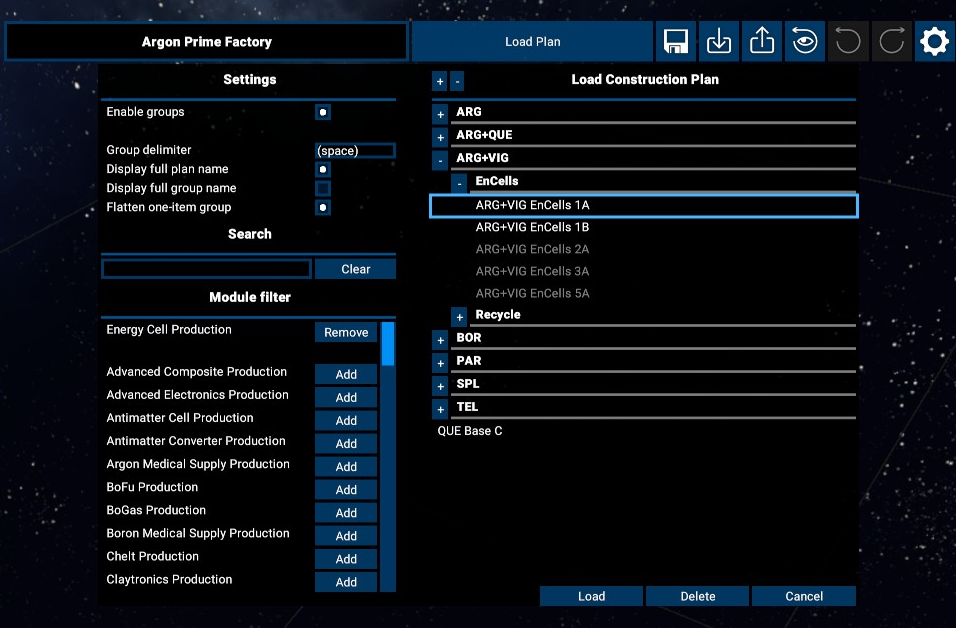
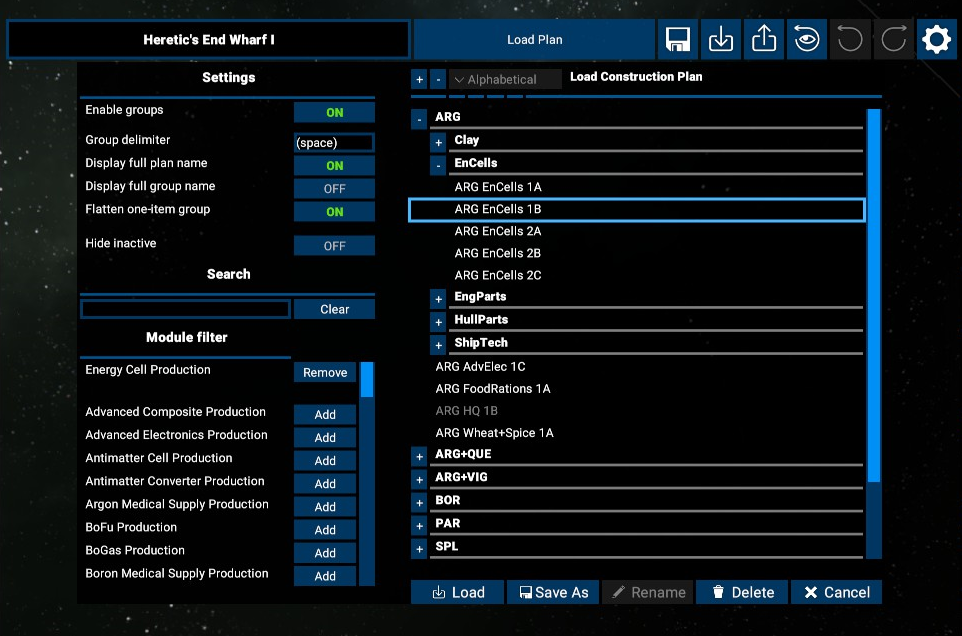
update images and readme, and bump version

diff --git a/README.md b/README.md
@@ -83,6 +83,7 @@ Use along-side VRO can break the "Race filter" during ship selection, unless thi
 
 ## Updates
 
+* 1.3: Added 'Save As' button. Remade settings switches. Added icons to button row.
 * 1.2.1: Fixed unresponsive station map after opening a context menu.
 * 1.2: Added option for loading partial ship loadout. Add size and purpose filter in ship selection. Remove ship size dropdown. Add sorting dropdown. Add rename button for ship and station module loadouts. Remove 'other' race option in auto-preset editor. Disable race dropdown for thruster auto rule.
 * 1.1: Added auto-generated preset editor. Added custom delete confirmation dialog. Fixed delete and load buttons working despite being inactive.
